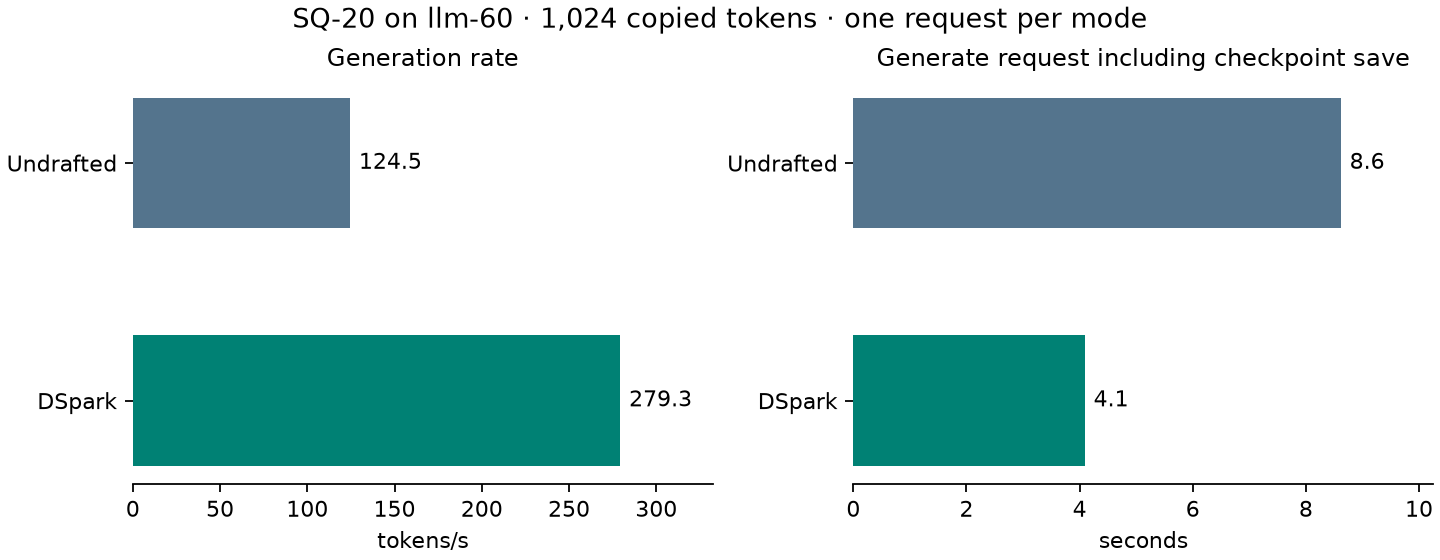
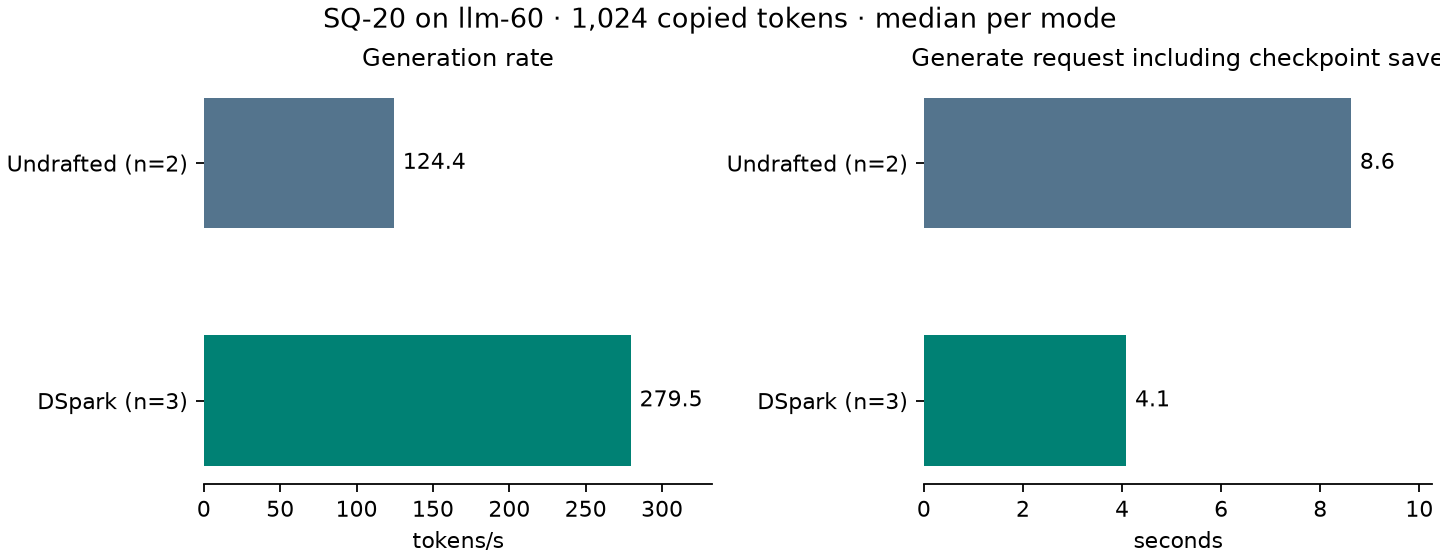
Include all five verified long-copy receipts in timing comparison

diff --git a/docs/benchmarks/inkling/plot_sq20_dspark_copy.py b/docs/benchmarks/inkling/plot_sq20_dspark_copy.py
@@ -1,6 +1,7 @@
 """Plot server-side timing for the exact 1,024-token copy comparison."""
 import csv
 from pathlib import Path
+from statistics import median
 
 import matplotlib.pyplot as plt
 
@@ -8,14 +9,17 @@ stem = Path(__file__).with_name("sq20-dspark-copy-timing")
 with stem.with_suffix(".csv").open() as source:
     rows = list(csv.DictReader(source))
 fig, axes = plt.subplots(1, 2, figsize=(9, 3.5), layout="constrained")
-fig.suptitle("SQ-20 on llm-60 · 1,024 copied tokens · one request per mode")
+fig.suptitle("SQ-20 on llm-60 · 1,024 copied tokens · median per mode")
 colors = ["#54748d", "#008174"]
 for ax, title, values, unit in zip(
     axes, ["Generation rate", "Generate request including checkpoint save"],
     [[int(r["output_tokens"]) / float(r["generation_seconds"]) for r in rows],
      [float(r["request_seconds"]) for r in rows]], ["tokens/s", "seconds"]
 ):
-    bars = ax.barh(["Undrafted", "DSpark"], values, color=colors, height=0.55)
+    samples = [[v for r, v in zip(rows, values) if r["mode"] == mode]
+               for mode in ("plain", "dspark")]
+    labels = [f"{name} (n={len(group)})" for name, group in zip(["Undrafted", "DSpark"], samples)]
+    bars = ax.barh(labels, [median(group) for group in samples], color=colors, height=0.55)
     ax.bar_label(bars, fmt="%.1f", padding=4)
     ax.set_xlim(0, max(values) * 1.19)
     ax.set_title(title, fontsize=11)

diff --git a/README.md b/README.md
@@ -20,7 +20,7 @@ Both serial asks showed text within 0.53 seconds. The two overlapping asks showe
 
 ![Generation rate and server request time for the verified copy](docs/benchmarks/inkling/sq20-dspark-copy-timing.png)
 
-Both streams produced identical tokens and final logits. The saved-prompt generate request included 0.32 seconds of checkpoint saving undrafted and 0.35 seconds with DSpark. Initial prompt creation and the subsequent HTTP checkpoint download were outside the request timer. [Receipt timings](docs/benchmarks/inkling/sq20-dspark-copy-timing.csv)
+Across two undrafted and three DSpark requests, every output token matched. Within each mode, all saved child payload hashes matched. The final logit rows also matched across modes in the direct comparison. Server request times ranged from 8.616 to 8.623 seconds undrafted and 4.080 to 4.089 seconds with DSpark (rounded to milliseconds). The saved-prompt generate request included 0.32 seconds of checkpoint saving undrafted and 0.35 seconds with DSpark. Initial prompt creation and the subsequent HTTP checkpoint download were outside the request timer. [Receipt timings](docs/benchmarks/inkling/sq20-dspark-copy-timing.csv)
 
 ### DSpark on a 64k-token register
 
